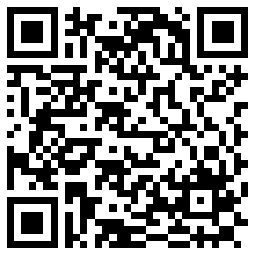
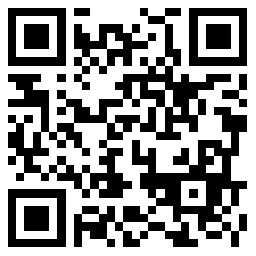
201901312

diff --git a/index.html b/index.html
@@ -1,4 +1,4 @@
-<html class="ui-mobile"><head>
+<html class="ui-mobile"><head><base href="http://zclic.tpri.org.cn/zlwx/information.html?reqNo=A2200002020010700855&amp;status=52">
 <title>跨省大件审批</title>
 <meta name="author" content="www.tpri.com">
 <meta name="viewport" content="width=device-width, initial-scale=1.0, maximum-scale=1.0, user-scalable=1,maximum-scale=1, user-scalable=no">
@@ -18,8 +18,8 @@
 <script src="./dm/jquery.mobile-1.4.5.min.js"></script>
 <script src="./dm/jquery.qrcode.min.js"></script>
 <script src="./dm/ajax.js" charset="UTF-8"></script>
-<!-- <script src="http://zclic.tpri.org.cn/zlwx/js/information.js?time=2" charset="UTF-8"></script> -->
-<script src="http://res.wx.qq.com/open/js/jweixin-1.4.0.js" type="text/javascript"></script>
+<script src="./dm/information.js?time=2" charset="UTF-8"></script>
+<script src="./dm/jweixin-1.4.0.js" type="text/javascript"></script>
 <style type="text/css">
 #qrcode {
     position: absolute;
@@ -47,8 +47,8 @@
 </style>
 </head>
 <body class="ui-mobile-viewport ui-overlay-a mui-ios mui-wechat mui-ios-10 mui-ios-10-3 mui-ios-10-3-1 mui-wechat-7 mui-wechat-7-0 mui-wechat-7-0-4">
-    <div data-role="page" data-url="/zlwx/information.html?reqNo=A1500002020011000828&amp;status=52&amp;from=singlemessage&amp;isappinstalled=0" tabindex="0" class="ui-page ui-page-theme-a ui-page-header-fixed ui-page-active" style="padding-top: 26px;">
-        <input id="reqNoHidden" type="hidden" value="A1500002020011000828">
+    <div data-role="page" data-url="/zlwx/information.html?reqNo=A2200002020010700855&amp;status=52" tabindex="0" class="ui-page ui-page-theme-a ui-page-header-fixed ui-page-active" style="padding-top: 26px;">
+        <input id="reqNoHidden" type="hidden" value="A2200002020010700855">
         <input id="status" type="hidden" value="52">
         <div data-role="header" data-position="fixed" data-theme="a" style="background-color: #18558D" role="banner" class="ui-header ui-bar-a ui-header-fixed slidedown">
             
@@ -68,22 +68,22 @@
                     <div class="detail-value detail-name-blod" style="height: 220px;">
                   <div id="qrcode" style="left: 50%; transform: translateX(-50%);">
                     <div id="codeico">
-                        <img src="http://zclic.tpri.org.cn/zlwx/images/favicon.png" width="40">
+                        <img src="images/favicon.png" width="40">
                     </div>
-					<img src="https://qinxiaoshan.github.io/zg/djewm.png" width="180" height="180" alt="">
                   <!-- <canvas width="180" height="180"></canvas> -->
+				  <img src="./djewm.png" width="180" height="180" alt="">
 				  </div></div></li>
                 <li data-role="list-divider" class="category-title ui-li-divider ui-bar-a" role="heading">基本信息</li>  <!-- 基本信息 -->              
                 <li class="ui-li-static ui-body-inherit"><div class="detail-name detail-name-blod ">超限运输许可证号：</div>
-                    <div class="detail-value " id="reqNo">A1500002020011000828</div></li>
+                    <div class="detail-value " id="reqNo">A2200002020010700855</div></li>
                 <li class="ui-li-static ui-body-inherit"><div class="detail-name detail-name-blod">有效范围：</div>
-                    <div class="detail-value " id="passDists">内蒙古自治区,河北省</div></li>
+                    <div class="detail-value " id="passDists">吉林省,内蒙古自治区,河北省,甘肃省,新疆维吾尔自治区</div></li>
                 <li class="ui-li-static ui-body-inherit"><div class="detail-name detail-name-blod ">通行时间：</div>
-                    <div class="detail-value " id="passDate">2020年01月16日 12时36分 至 2020年01月31日 23时59分</div></li>
+                    <div class="detail-value " id="passDate">2020年01月13日 12时44分 至 2020年03月06日 23时59分</div></li>
                 <li class="ui-li-static ui-body-inherit"><div class="detail-name detail-name-blod ">通行次数：</div>
                     <div class="detail-value " id="passCount">单次</div></li>    
                 <li class="ui-li-static ui-body-inherit"><div class="detail-name detail-name-blod">通行路线：</div>
-                    <div class="detail-value " id="roads"><br><span id="pro">内蒙古自治区</span>:大柳塔村--包府公路-碌碡墕收费站-G18荣乌高速-S31呼大高速-S24兴巴高速-G6京藏高速--蒙冀界<br><hr><span id="pro">河北省</span>:冀蒙界--G6京藏高速-G1013海张高速--张北北收费站<br><hr></div></li>
+                    <div class="detail-value " id="roads"><br><span id="pro">吉林省</span>:扶余南收费站--G1015铁科高 速--G45大广高速双辽北主线--吉蒙界<br><hr><span id="pro">内蒙古自治区</span>:蒙吉界--G45大广高速---蒙冀界---蒙冀界---G6京藏高速 --G7京新高速--蒙甘界<br><hr><span id="pro">河北省</span>:冀蒙界--G45大广高速--G95首都环线--G6京藏高速--冀蒙界<br><hr><span id="pro">甘肃省</span>:甘蒙界--G7京新高速--甘新界<br><hr><span id="pro">新疆维吾尔自治区</span>:新甘界--G7京新高速-- G30连霍高速--G3012吐和高速--塔库提收费站（出口）--阿图什市苏州路<br><hr></div></li>
                 <li class="ui-li-static ui-body-inherit"><div class="detail-name detail-name-blod">承运单位：</div>
                     <div class="detail-value " id="certName">大庆市益丰物流有限公司</div></li>
                 <li class="ui-li-static ui-body-inherit"><div class="detail-name detail-name-blod">经营许可证号：</div>
@@ -96,46 +96,54 @@
                     
                 <li data-role="list-divider" class="category-title ui-li-divider ui-bar-a" role="heading">货物信息</li> <!-- 货物信息 -->
                 <li class="ui-li-static ui-body-inherit"><div class="detail-name detail-name-blod">货物名称：</div>
-                    <div class="detail-value " id="cargoInfo">挖掘机</div></li>
+                    <div class="detail-value " id="cargoInfo">罐体</div></li>
                 <li class="ui-li-static ui-body-inherit"><div class="detail-name detail-name-blod">货物重量：</div>
-                    <div class="detail-value " id="cargoWeight">46.20吨</div></li>
+                    <div class="detail-value " id="cargoWeight">88.70吨</div></li>
                 <li class="ui-li-static ui-body-inherit"><div class="detail-name detail-name-blod">货物外廓尺寸(米)：</div>
-                    <div class="detail-value " id="cargoOutline">13.00 × 3.40 × 4.00</div></li>
+                    <div class="detail-value " id="cargoOutline">28.00 × 3.98 × 4.10</div></li>
                     
                 <li data-role="list-divider" class="category-title ui-li-divider ui-bar-a" role="heading">车辆信息</li> <!-- 车辆信息 -->
                 <li class="ui-li-static ui-body-inherit"><div class="detail-name detail-name-blod">牵引车车号牌：</div>
-                    <div class="detail-value" id="vehicleNo">黑EJ6623</div></li>
+                    <div class="detail-value" id="vehicleNo">黑EJ2116</div></li>
                 <li class="ui-li-static ui-body-inherit"><div class="detail-name detail-name-blod">牵引车厂牌型号：</div>
-                    <div class="detail-value" id="model">陕汽牌SX4250XC4Q2</div></li>
+                    <div class="detail-value" id="model">陕汽牌SX4250XC42</div></li>
                 <li class="ui-li-static ui-body-inherit"><div class="detail-name detail-name-blod">牵引车整备质量：</div>
-                    <div class="detail-value" id="vehWeight">8.80吨</div></li>                
+                    <div class="detail-value" id="vehWeight">10.30吨</div></li>                
                 <li class="han-veh ui-li-static ui-body-inherit"><div class="detail-name detail-name-blod">挂车车号牌：</div>
-                    <div class="detail-value" id="hanvehicleNo">黑E4246超</div></li>
+                    <div class="detail-value" id="hanvehicleNo">黑E4248超</div></li>
                 <li class="han-veh ui-li-static ui-body-inherit"><div class="detail-name detail-name-blod">挂车厂牌型号：</div>
-                    <div class="detail-value" id="hanmodel">骏强牌</div></li>
+                    <div class="detail-value" id="hanmodel">杨嘉牌LHL91170TDP</div></li>
                 <li class="han-veh ui-li-static ui-body-inherit"><div class="detail-name detail-name-blod">挂车整备质量：</div>
-                    <div class="detail-value " id="hanvehWeight">15.00吨</div></li>
+                    <div class="detail-value " id="hanvehWeight">17.00吨</div></li>
                 
                 <li data-role="list-divider" class="category-title ui-li-divider ui-bar-a" role="heading">车货总体信息</li> <!-- 车货总体信息 -->
                 <li class="ui-li-static ui-body-inherit"><div class="detail-name detail-name-blod">车货总重量：</div>
-                    <div class="detail-value " id="totalWeight">70.00吨</div></li>
+                    <div class="detail-value " id="totalWeight">116.00吨</div></li>
                 <li class="ui-li-static ui-body-inherit"><div class="detail-name detail-name-blod">车货外廓尺寸(米)：</div>
-                    <div class="detail-value " id="totalOutline">20.00 × 3.40 × 4.50</div></li>
+                    <div class="detail-value " id="totalOutline">36.00 × 3.98 × 4.88</div></li>
                 <li class="ui-li-static ui-body-inherit"><div class="detail-name detail-name-blod">轴荷分布：</div>
-                    <div class="detail-value " id="axlesLoad">10+20+40</div></li>
+                    <div class="detail-value " id="axlesLoad">10+20+5*18</div></li>
                 <li class="ui-li-static ui-body-inherit"><div class=" detail-name-blod">车货总体轮廓图：</div>
-                    <div class="detail-image detail-value" id="totalImgs">无</div></li>
+                    <div class="detail-image detail-value" id="totalImgs"><div>
+					<img alt="车货照片" src="./images/zzt.jpg" data-preview-src="" data-preview-group="1">
+					</div><div>
+					<img alt="车货照片" src="./images/zzt.jpg" data-preview-src="" data-preview-group="1">
+					</div><div>
+					<img alt="车货照片" src="./images/zzt.jpg" data-preview-src="" data-preview-group="1">
+					</div></div></li>
                 
                 <li data-role="list-divider" class="category-title ui-li-divider ui-bar-a" role="heading">备注</li>
-                <li class="ui-li-static ui-body-inherit"><div class="detail-value " id="bz">许可发证</div></li>
+                <li class="ui-li-static ui-body-inherit"><div class="detail-value " id="bz">同意</div></li>
                     
                 <li data-role="list-divider" class="category-title ui-li-divider ui-bar-a" role="heading">其他信息</li> <!-- 其他信息 -->
                 <li class="ui-li-static ui-body-inherit"><div class="detail-name detail-name-blod">通行意见：</div>
-                    <div class="detail-value " id="passOpinion"><br>内蒙古自治区：<br>交通部门意见:同意<br>公安部门意见:内蒙交警提示：通行时间为每日早6:00至晚19:00，法定节假日禁止通行。<br><hr>河北省：<br>交通部门意见:原则上同意其在申请的时间路线内行驶。车辆应当遵守《中华人民共和国道路交通安全法》及其《实施条例》的相关规定，严格按照《超限运输车辆行驶公路管理规定》第20条要求通行。
+                    <div class="detail-value " id="passOpinion"><br>甘肃省：<br>交通部门意见:同意。<br>公安部门意见:暂无！<br><hr>新疆维吾尔自治区：<br>交通部门意见:联合审查通过<br>公安部门意见:暂无！<br><hr>内蒙古自治区：<br>交通部门意见:备案<br>公安部门意见:内蒙交警提示：通行时间为每日早6:00至晚19:00，法定节假日禁止通行。<br><hr>吉林省：<br>交通部门意见:1.建议进一步核实轴载，单轴最大轴载不超过20吨，核实无误后可通行。法定节假日及恶劣天气禁止通行。 2.车辆应当遵守《中华人民共和国道路交通安全法》及其《实施条例》的相关规定，严格按照《超限运输车辆行驶公路管理规定》要求通行。 3.通过单柱墩桥梁时应提前与相关部门联系查勘确认后延中间线匀速通过<br>公安部门意见:暂无！<br><hr>河北省：<br>交通部门意见:原则上同意其在申请的时间路线内行驶。车辆应当遵守《中华人民共和国道路交通安全法》及其《实施条例》的相关规定，严格按照《超限运输车辆行驶公路管理规定》第20条要求通行。
 行至我省请提前与沿途/市高速交警支队电话联系，了解沿途交通管制情况，听从交警指挥。联系电话：12122
 通行我省高速大件运输车辆请于每日早6时至晚22时通行，超过此时段后请即刻就近停靠服务区休息，违反规定罚款200记6分,节假日期间禁止超限车辆通行。<br>公安部门意见:暂无！<br><hr></div></li>                
                 <li class="ui-li-static ui-body-inherit"><div class="detail-name-blod">护送方案：</div>
-                    <div class="detail-image detail-value" id="planfile">无</div></li> 
+                    <div class="detail-image detail-value" id="planfile"><div>
+					<a href="./images/hsfa.pdf">护送方案_1</a>
+					</div></div></li> 
                 <li class="ui-li-static ui-body-inherit ui-last-child"><div class="detail-name-blod">运输计划：</div>
                     <div class="detail-image detail-value" id="transportplan">无</div></li> 
             </ul>
@@ -150,4 +158,4 @@
         </script> -->
     </div>
 
-<div class="ui-loader ui-corner-all ui-body-a ui-loader-default"><span class="ui-icon-loading"></span><h1>loading</h1></div></body></html>
+<div class="ui-loader ui-corner-all ui-body-a ui-loader-default"><span class="ui-icon-loading"></span><h1>loading</h1></div><div id="__MUI_PREVIEWIMAGE" class="mui-slider mui-preview-image mui-fullscreen"><div class="mui-preview-header"><span class="mui-preview-indicator"></span></div><div class="mui-slider-group"></div><div class="mui-preview-footer mui-hidden"></div><div class="mui-preview-loading"><span class="mui-spinner mui-spinner-white"></span></div></div></body></html>

diff --git a/dm/jweixin-1.4.0.js b/dm/jweixin-1.4.0.js
@@ -1,0 +1,1 @@
+!function(e,n){"function"==typeof define&&(define.amd||define.cmd)?define(function(){return n(e)}):n(e,!0)}(this,function(e,n){function i(n,i,t){e.WeixinJSBridge?WeixinJSBridge.invoke(n,o(i),function(e){c(n,e,t)}):u(n,t)}function t(n,i,t){e.WeixinJSBridge?WeixinJSBridge.on(n,function(e){t&&t.trigger&&t.trigger(e),c(n,e,i)}):t?u(n,t):u(n,i)}function o(e){return e=e||{},e.appId=C.appId,e.verifyAppId=C.appId,e.verifySignType="sha1",e.verifyTimestamp=C.timestamp+"",e.verifyNonceStr=C.nonceStr,e.verifySignature=C.signature,e}function r(e){return{timeStamp:e.timestamp+"",nonceStr:e.nonceStr,package:e.package,paySign:e.paySign,signType:e.signType||"SHA1"}}function a(e){return e.postalCode=e.addressPostalCode,delete e.addressPostalCode,e.provinceName=e.proviceFirstStageName,delete e.proviceFirstStageName,e.cityName=e.addressCitySecondStageName,delete e.addressCitySecondStageName,e.countryName=e.addressCountiesThirdStageName,delete e.addressCountiesThirdStageName,e.detailInfo=e.addressDetailInfo,delete e.addressDetailInfo,e}function c(e,n,i){"openEnterpriseChat"==e&&(n.errCode=n.err_code),delete n.err_code,delete n.err_desc,delete n.err_detail;var t=n.errMsg;t||(t=n.err_msg,delete n.err_msg,t=s(e,t),n.errMsg=t),(i=i||{})._complete&&(i._complete(n),delete i._complete),t=n.errMsg||"",C.debug&&!i.isInnerInvoke&&alert(JSON.stringify(n));var o=t.indexOf(":");switch(t.substring(o+1)){case"ok":i.success&&i.success(n);break;case"cancel":i.cancel&&i.cancel(n);break;default:i.fail&&i.fail(n)}i.complete&&i.complete(n)}function s(e,n){var i=e,t=v[i];t&&(i=t);var o="ok";if(n){var r=n.indexOf(":");"confirm"==(o=n.substring(r+1))&&(o="ok"),"failed"==o&&(o="fail"),-1!=o.indexOf("failed_")&&(o=o.substring(7)),-1!=o.indexOf("fail_")&&(o=o.substring(5)),"access denied"!=(o=(o=o.replace(/_/g," ")).toLowerCase())&&"no permission to execute"!=o||(o="permission denied"),"config"==i&&"function not exist"==o&&(o="ok"),""==o&&(o="fail")}return n=i+":"+o}function d(e){if(e){for(var n=0,i=e.length;n<i;++n){var t=e[n],o=h[t];o&&(e[n]=o)}return e}}function u(e,n){if(!(!C.debug||n&&n.isInnerInvoke)){var i=v[e];i&&(e=i),n&&n._complete&&delete n._complete,console.log('"'+e+'",',n||"")}}function l(e){if(!(k||w||C.debug||x<"6.0.2"||V.systemType<0)){var n=new Image;V.appId=C.appId,V.initTime=A.initEndTime-A.initStartTime,V.preVerifyTime=A.preVerifyEndTime-A.preVerifyStartTime,N.getNetworkType({isInnerInvoke:!0,success:function(e){V.networkType=e.networkType;var i="https://open.weixin.qq.com/sdk/report?v="+V.version+"&o="+V.isPreVerifyOk+"&s="+V.systemType+"&c="+V.clientVersion+"&a="+V.appId+"&n="+V.networkType+"&i="+V.initTime+"&p="+V.preVerifyTime+"&u="+V.url;n.src=i}})}}function p(){return(new Date).getTime()}function f(n){T&&(e.WeixinJSBridge?n():S.addEventListener&&S.addEventListener("WeixinJSBridgeReady",n,!1))}function m(){N.invoke||(N.invoke=function(n,i,t){e.WeixinJSBridge&&WeixinJSBridge.invoke(n,o(i),t)},N.on=function(n,i){e.WeixinJSBridge&&WeixinJSBridge.on(n,i)})}function g(e){if("string"==typeof e&&e.length>0){var n=e.split("?")[0],i=e.split("?")[1];return n+=".html",void 0!==i?n+"?"+i:n}}if(!e.jWeixin){var h={config:"preVerifyJSAPI",onMenuShareTimeline:"menu:share:timeline",onMenuShareAppMessage:"menu:share:appmessage",onMenuShareQQ:"menu:share:qq",onMenuShareWeibo:"menu:share:weiboApp",onMenuShareQZone:"menu:share:QZone",previewImage:"imagePreview",getLocation:"geoLocation",openProductSpecificView:"openProductViewWithPid",addCard:"batchAddCard",openCard:"batchViewCard",chooseWXPay:"getBrandWCPayRequest",openEnterpriseRedPacket:"getRecevieBizHongBaoRequest",startSearchBeacons:"startMonitoringBeacons",stopSearchBeacons:"stopMonitoringBeacons",onSearchBeacons:"onBeaconsInRange",consumeAndShareCard:"consumedShareCard",openAddress:"editAddress"},v=function(){var e={};for(var n in h)e[h[n]]=n;return e}(),S=e.document,I=S.title,y=navigator.userAgent.toLowerCase(),_=navigator.platform.toLowerCase(),k=!(!_.match("mac")&&!_.match("win")),w=-1!=y.indexOf("wxdebugger"),T=-1!=y.indexOf("micromessenger"),M=-1!=y.indexOf("android"),P=-1!=y.indexOf("iphone")||-1!=y.indexOf("ipad"),x=function(){var e=y.match(/micromessenger\/(\d+\.\d+\.\d+)/)||y.match(/micromessenger\/(\d+\.\d+)/);return e?e[1]:""}(),A={initStartTime:p(),initEndTime:0,preVerifyStartTime:0,preVerifyEndTime:0},V={version:1,appId:"",initTime:0,preVerifyTime:0,networkType:"",isPreVerifyOk:1,systemType:P?1:M?2:-1,clientVersion:x,url:encodeURIComponent(location.href)},C={},L={_completes:[]},B={state:0,data:{}};f(function(){A.initEndTime=p()});var O=!1,E=[],N={config:function(e){C=e,u("config",e);var n=!1!==C.check;f(function(){if(n)i(h.config,{verifyJsApiList:d(C.jsApiList)},function(){L._complete=function(e){A.preVerifyEndTime=p(),B.state=1,B.data=e},L.success=function(e){V.isPreVerifyOk=0},L.fail=function(e){L._fail?L._fail(e):B.state=-1};var e=L._completes;return e.push(function(){l()}),L.complete=function(n){for(var i=0,t=e.length;i<t;++i)e[i]();L._completes=[]},L}()),A.preVerifyStartTime=p();else{B.state=1;for(var e=L._completes,t=0,o=e.length;t<o;++t)e[t]();L._completes=[]}}),m()},ready:function(e){0!=B.state?e():(L._completes.push(e),!T&&C.debug&&e())},error:function(e){x<"6.0.2"||(-1==B.state?e(B.data):L._fail=e)},checkJsApi:function(e){var n=function(e){var n=e.checkResult;for(var i in n){var t=v[i];t&&(n[t]=n[i],delete n[i])}return e};i("checkJsApi",{jsApiList:d(e.jsApiList)},(e._complete=function(e){if(M){var i=e.checkResult;i&&(e.checkResult=JSON.parse(i))}e=n(e)},e))},onMenuShareTimeline:function(e){t(h.onMenuShareTimeline,{complete:function(){i("shareTimeline",{title:e.title||I,desc:e.title||I,img_url:e.imgUrl||"",link:e.link||location.href,type:e.type||"link",data_url:e.dataUrl||""},e)}},e)},onMenuShareAppMessage:function(e){t(h.onMenuShareAppMessage,{complete:function(n){"favorite"===n.scene?i("sendAppMessage",{title:e.title||I,desc:e.desc||"",link:e.link||location.href,img_url:e.imgUrl||"",type:e.type||"link",data_url:e.dataUrl||""}):i("sendAppMessage",{title:e.title||I,desc:e.desc||"",link:e.link||location.href,img_url:e.imgUrl||"",type:e.type||"link",data_url:e.dataUrl||""},e)}},e)},onMenuShareQQ:function(e){t(h.onMenuShareQQ,{complete:function(){i("shareQQ",{title:e.title||I,desc:e.desc||"",img_url:e.imgUrl||"",link:e.link||location.href},e)}},e)},onMenuShareWeibo:function(e){t(h.onMenuShareWeibo,{complete:function(){i("shareWeiboApp",{title:e.title||I,desc:e.desc||"",img_url:e.imgUrl||"",link:e.link||location.href},e)}},e)},onMenuShareQZone:function(e){t(h.onMenuShareQZone,{complete:function(){i("shareQZone",{title:e.title||I,desc:e.desc||"",img_url:e.imgUrl||"",link:e.link||location.href},e)}},e)},updateTimelineShareData:function(e){i("updateTimelineShareData",{title:e.title,link:e.link,imgUrl:e.imgUrl},e)},updateAppMessageShareData:function(e){i("updateAppMessageShareData",{title:e.title,desc:e.desc,link:e.link,imgUrl:e.imgUrl},e)},startRecord:function(e){i("startRecord",{},e)},stopRecord:function(e){i("stopRecord",{},e)},onVoiceRecordEnd:function(e){t("onVoiceRecordEnd",e)},playVoice:function(e){i("playVoice",{localId:e.localId},e)},pauseVoice:function(e){i("pauseVoice",{localId:e.localId},e)},stopVoice:function(e){i("stopVoice",{localId:e.localId},e)},onVoicePlayEnd:function(e){t("onVoicePlayEnd",e)},uploadVoice:function(e){i("uploadVoice",{localId:e.localId,isShowProgressTips:0==e.isShowProgressTips?0:1},e)},downloadVoice:function(e){i("downloadVoice",{serverId:e.serverId,isShowProgressTips:0==e.isShowProgressTips?0:1},e)},translateVoice:function(e){i("translateVoice",{localId:e.localId,isShowProgressTips:0==e.isShowProgressTips?0:1},e)},chooseImage:function(e){i("chooseImage",{scene:"1|2",count:e.count||9,sizeType:e.sizeType||["original","compressed"],sourceType:e.sourceType||["album","camera"]},(e._complete=function(e){if(M){var n=e.localIds;try{n&&(e.localIds=JSON.parse(n))}catch(e){}}},e))},getLocation:function(e){},previewImage:function(e){i(h.previewImage,{current:e.current,urls:e.urls},e)},uploadImage:function(e){i("uploadImage",{localId:e.localId,isShowProgressTips:0==e.isShowProgressTips?0:1},e)},downloadImage:function(e){i("downloadImage",{serverId:e.serverId,isShowProgressTips:0==e.isShowProgressTips?0:1},e)},getLocalImgData:function(e){!1===O?(O=!0,i("getLocalImgData",{localId:e.localId},(e._complete=function(e){if(O=!1,E.length>0){var n=E.shift();wx.getLocalImgData(n)}},e))):E.push(e)},getNetworkType:function(e){var n=function(e){var n=e.errMsg;e.errMsg="getNetworkType:ok";var i=e.subtype;if(delete e.subtype,i)e.networkType=i;else{var t=n.indexOf(":"),o=n.substring(t+1);switch(o){case"wifi":case"edge":case"wwan":e.networkType=o;break;default:e.errMsg="getNetworkType:fail"}}return e};i("getNetworkType",{},(e._complete=function(e){e=n(e)},e))},openLocation:function(e){i("openLocation",{latitude:e.latitude,longitude:e.longitude,name:e.name||"",address:e.address||"",scale:e.scale||28,infoUrl:e.infoUrl||""},e)},getLocation:function(e){e=e||{},i(h.getLocation,{type:e.type||"wgs84"},(e._complete=function(e){delete e.type},e))},hideOptionMenu:function(e){i("hideOptionMenu",{},e)},showOptionMenu:function(e){i("showOptionMenu",{},e)},closeWindow:function(e){i("closeWindow",{},e=e||{})},hideMenuItems:function(e){i("hideMenuItems",{menuList:e.menuList},e)},showMenuItems:function(e){i("showMenuItems",{menuList:e.menuList},e)},hideAllNonBaseMenuItem:function(e){i("hideAllNonBaseMenuItem",{},e)},showAllNonBaseMenuItem:function(e){i("showAllNonBaseMenuItem",{},e)},scanQRCode:function(e){i("scanQRCode",{needResult:(e=e||{}).needResult||0,scanType:e.scanType||["qrCode","barCode"]},(e._complete=function(e){if(P){var n=e.resultStr;if(n){var i=JSON.parse(n);e.resultStr=i&&i.scan_code&&i.scan_code.scan_result}}},e))},openAddress:function(e){i(h.openAddress,{},(e._complete=function(e){e=a(e)},e))},openProductSpecificView:function(e){i(h.openProductSpecificView,{pid:e.productId,view_type:e.viewType||0,ext_info:e.extInfo},e)},addCard:function(e){for(var n=e.cardList,t=[],o=0,r=n.length;o<r;++o){var a=n[o],c={card_id:a.cardId,card_ext:a.cardExt};t.push(c)}i(h.addCard,{card_list:t},(e._complete=function(e){var n=e.card_list;if(n){for(var i=0,t=(n=JSON.parse(n)).length;i<t;++i){var o=n[i];o.cardId=o.card_id,o.cardExt=o.card_ext,o.isSuccess=!!o.is_succ,delete o.card_id,delete o.card_ext,delete o.is_succ}e.cardList=n,delete e.card_list}},e))},chooseCard:function(e){i("chooseCard",{app_id:C.appId,location_id:e.shopId||"",sign_type:e.signType||"SHA1",card_id:e.cardId||"",card_type:e.cardType||"",card_sign:e.cardSign,time_stamp:e.timestamp+"",nonce_str:e.nonceStr},(e._complete=function(e){e.cardList=e.choose_card_info,delete e.choose_card_info},e))},openCard:function(e){for(var n=e.cardList,t=[],o=0,r=n.length;o<r;++o){var a=n[o],c={card_id:a.cardId,code:a.code};t.push(c)}i(h.openCard,{card_list:t},e)},consumeAndShareCard:function(e){i(h.consumeAndShareCard,{consumedCardId:e.cardId,consumedCode:e.code},e)},chooseWXPay:function(e){i(h.chooseWXPay,r(e),e)},openEnterpriseRedPacket:function(e){i(h.openEnterpriseRedPacket,r(e),e)},startSearchBeacons:function(e){i(h.startSearchBeacons,{ticket:e.ticket},e)},stopSearchBeacons:function(e){i(h.stopSearchBeacons,{},e)},onSearchBeacons:function(e){t(h.onSearchBeacons,e)},openEnterpriseChat:function(e){i("openEnterpriseChat",{useridlist:e.userIds,chatname:e.groupName},e)},launchMiniProgram:function(e){i("launchMiniProgram",{targetAppId:e.targetAppId,path:g(e.path),envVersion:e.envVersion},e)},miniProgram:{navigateBack:function(e){e=e||{},f(function(){i("invokeMiniProgramAPI",{name:"navigateBack",arg:{delta:e.delta||1}},e)})},navigateTo:function(e){f(function(){i("invokeMiniProgramAPI",{name:"navigateTo",arg:{url:e.url}},e)})},redirectTo:function(e){f(function(){i("invokeMiniProgramAPI",{name:"redirectTo",arg:{url:e.url}},e)})},switchTab:function(e){f(function(){i("invokeMiniProgramAPI",{name:"switchTab",arg:{url:e.url}},e)})},reLaunch:function(e){f(function(){i("invokeMiniProgramAPI",{name:"reLaunch",arg:{url:e.url}},e)})},postMessage:function(e){f(function(){i("invokeMiniProgramAPI",{name:"postMessage",arg:e.data||{}},e)})},getEnv:function(n){f(function(){n({miniprogram:"miniprogram"===e.__wxjs_environment})})}}},b=1,R={};return S.addEventListener("error",function(e){if(!M){var n=e.target,i=n.tagName,t=n.src;if(("IMG"==i||"VIDEO"==i||"AUDIO"==i||"SOURCE"==i)&&-1!=t.indexOf("wxlocalresource://")){e.preventDefault(),e.stopPropagation();var o=n["wx-id"];if(o||(o=b++,n["wx-id"]=o),R[o])return;R[o]=!0,wx.ready(function(){wx.getLocalImgData({localId:t,success:function(e){n.src=e.localData}})})}}},!0),S.addEventListener("load",function(e){if(!M){var n=e.target,i=n.tagName;n.src;if("IMG"==i||"VIDEO"==i||"AUDIO"==i||"SOURCE"==i){var t=n["wx-id"];t&&(R[t]=!1)}}},!0),n&&(e.wx=e.jWeixin=N),N}});
